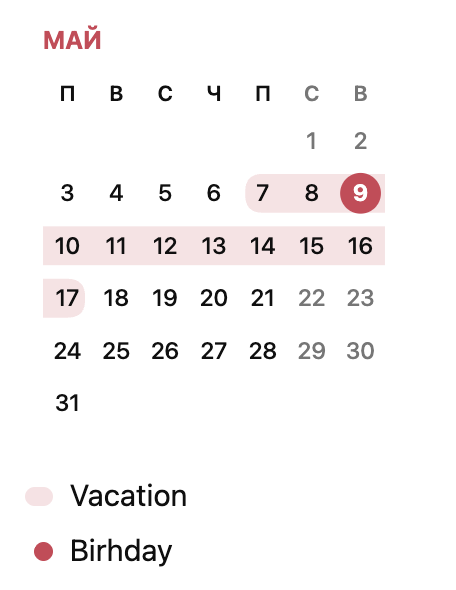
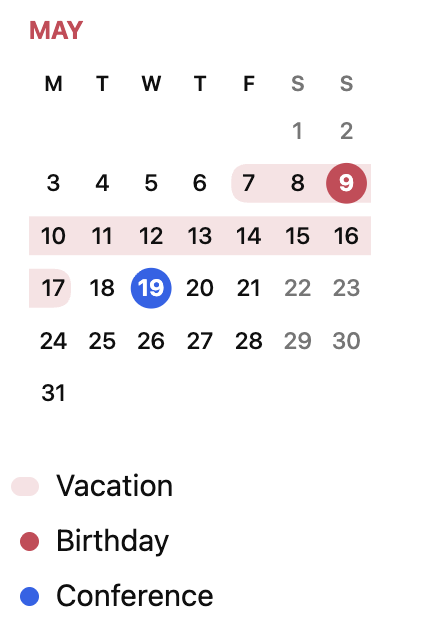
Update README legend example and screenshot

diff --git a/CHANGELOG.md b/CHANGELOG.md
@@ -2,3 +2,4 @@
 - Include the plugin version in release titles.
 - Release version 0.1.3.
 - Share one visual test case across all platforms and light and dark themes.
+- Correct the birthday label and add a conference to the README legend example.

diff --git a/README.md b/README.md
@@ -22,7 +22,8 @@ calendars.
 ````
 ```dates
 Vacation: 7 May 2027 - 17 May
-Birhday: 9 May
+Birthday: 9 May
+Conference: 19 May
 ```
 ````
 
